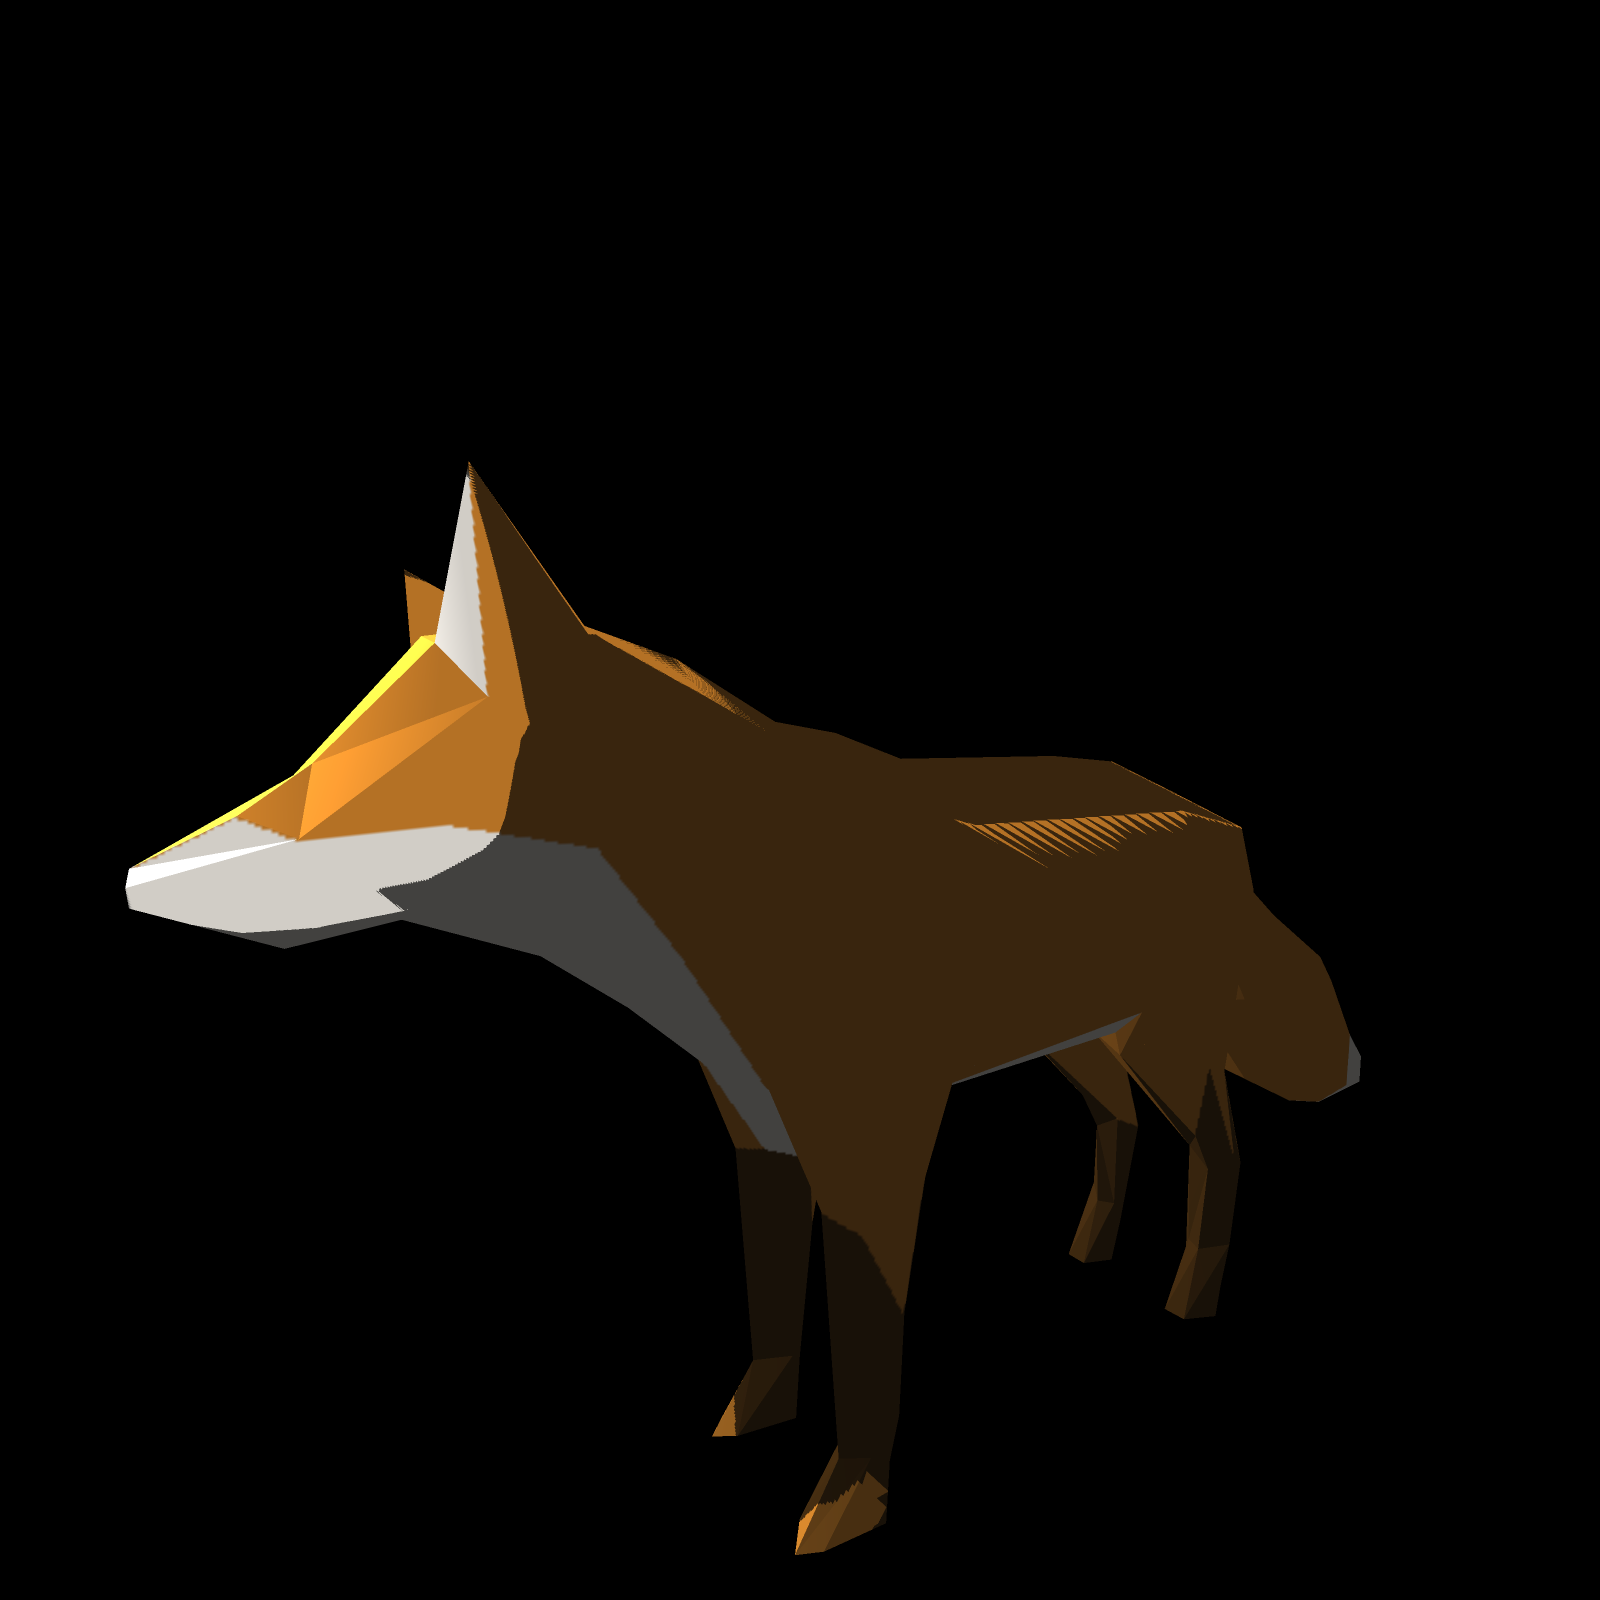
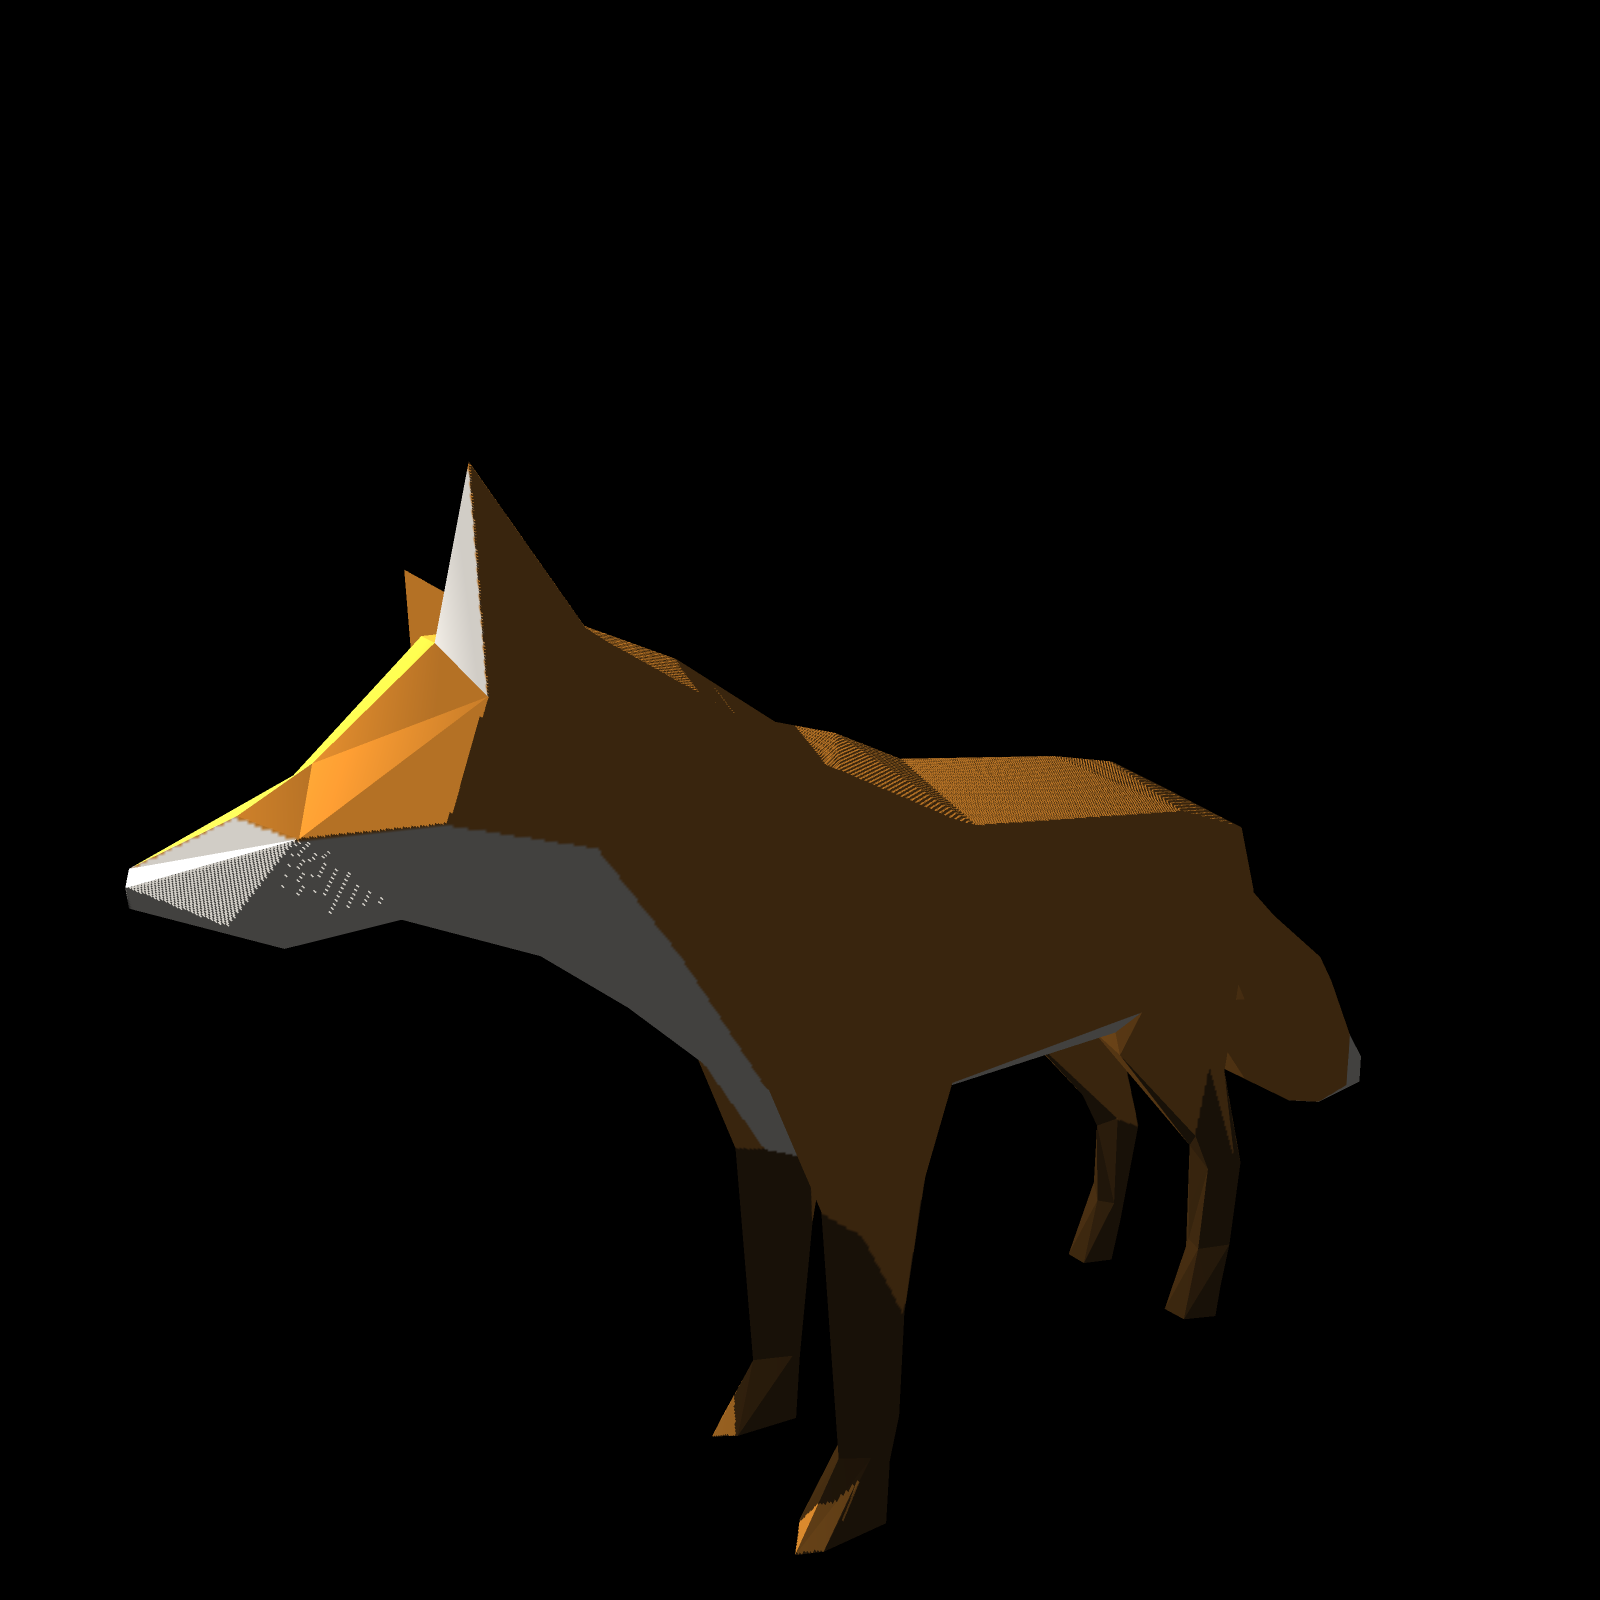
shadow map v1

diff --git a/main.cpp b/main.cpp
@@ -77,13 +77,14 @@ struct ShadowShader : public IShader {
         float sum = bar[0] + bar[1] + bar[2];
         Vec4f view_pos = varying_tri * bar / sum;
         Vec4f sb_p = uniform_Mshadow * (view_pos);  // corresponding point in the shadow buffer
-        sb_p = sb_p / sb_p[3];
+        for (int i = 0; i < 3; ++i) {
+            sb_p[i] /= sb_p[3];
+        }
         int idx = int(sb_p[0]) + int(sb_p[1]) * width;  // index in the shadowbuffer array
         float sum_depth = std::accumulate(sample_list_shadow[idx].begin(), sample_list_shadow[idx].end(), 0.f) / 4.f;
-        float dis = (proj<3>(view_pos) - l_pos).norm();
-        float shadow = 0.3f + 0.7 * (dis < (sum_depth + 5.f));
+        float shadow = 0.3f + 0.7 * (std::abs(sb_p[3] - sum_depth) < 0.1f);
 
-        Vec2f uv = varying_uv * bar / sum;  
+        Vec2f uv = varying_uv * bar / sum;
         Vec3f normal = (varying_normal * bar / sum).normalize();
 
         Vec3f l = (l_pos - Vec3f(view_pos[0], view_pos[1], view_pos[2])).normalize();

diff --git a/our_gl.cpp b/our_gl.cpp
@@ -88,16 +88,10 @@ void set_viewport_mat(int x, int y, int w, int h) {
 }
 
 Vec4f transformation(const Vec4f& vertex) {
-    Vec4f proj_coord = Projection * View * ModelMat * vertex;
-
-    Vec4f homo_coord;
-    for (int i = 0; i < 4; ++i) {
-        homo_coord[i] = proj_coord[i] / proj_coord[3];
+    Vec4f screen_coord = Viewport * Projection * View * ModelMat * vertex;
+    for (int i = 0; i < 3; ++i) {
+        screen_coord[i] /= screen_coord[3];
     }
-
-    Vec4f screen_coord = Viewport * homo_coord;
-    screen_coord[3] = proj_coord[3];
-
     return screen_coord;
 }
 // MVP END
